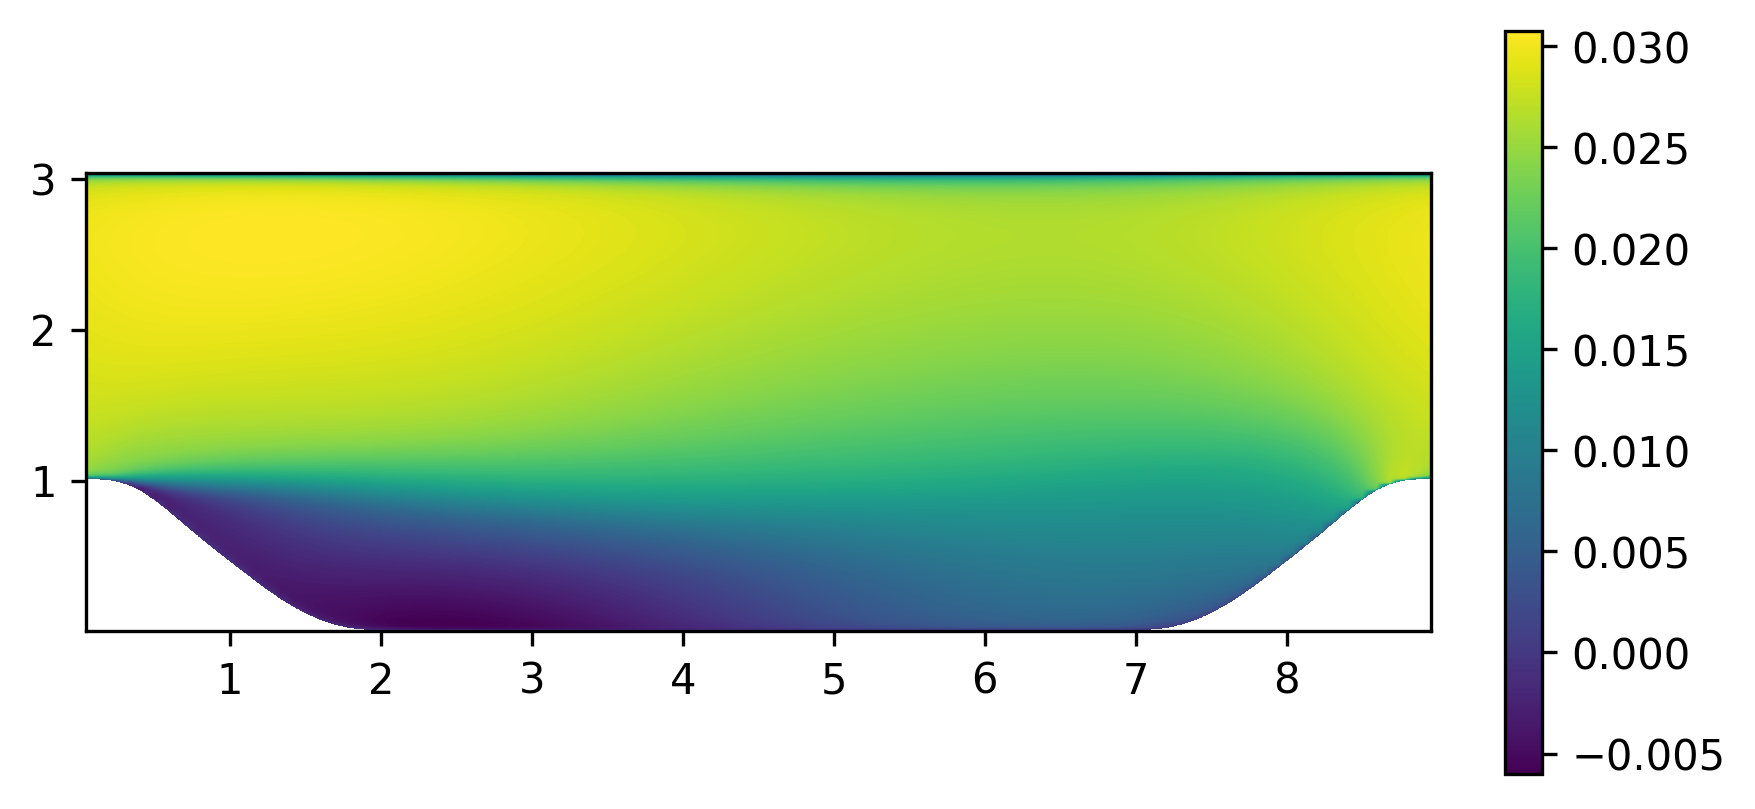
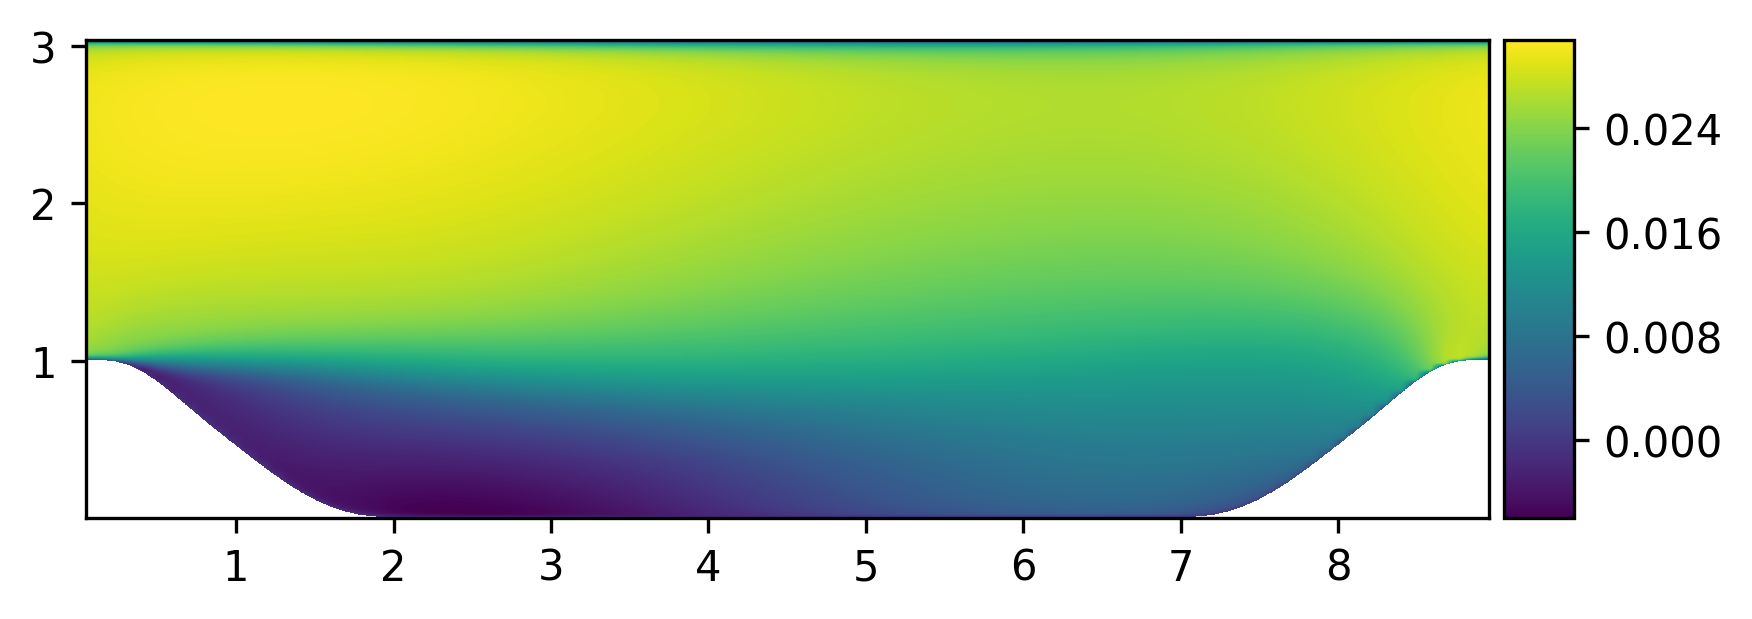
fixed colorbar

diff --git a/postfoam/foamtopy.py b/postfoam/foamtopy.py
@@ -8,6 +8,8 @@ import os.path
 from scipy.interpolate import griddata
 import re
 from matplotlib.path import Path
+from mpl_toolkits.axes_grid1 import make_axes_locatable
+from matplotlib import ticker
 
 
 
@@ -190,12 +192,18 @@ class FoamCase:
     def plotSurface(self, field: str, index: int = None, out = "out.png", colorbar: bool = False, show: bool = True):
         '''Cell coordinates have to be present in file C'''
         plt.figure()
+        ax = plt.subplot()
         x = self.parameters.get('C')[:,0]
         y = self.parameters.get('C')[:,1]
         xi,yi,zi = self.interp_data(field, index)
-        plt.imshow(zi, extent=[min(x),max(x),min(y),max(y)], origin='lower', cmap='viridis')
+        im = plt.imshow(zi, extent=[min(x),max(x),min(y),max(y)], origin='lower', cmap='viridis')
         if colorbar:
-            plt.colorbar()
+            divider = make_axes_locatable(ax)
+            cax = divider.append_axes("right", size="5%", pad=0.05)
+            cb = plt.colorbar(im, cax=cax)
+            tick_locator = ticker.MaxNLocator(nbins=5)
+            cb.locator = tick_locator
+            cb.update_ticks()
         if show:
             plt.savefig(out, dpi = 300, bbox_inches='tight')
             plt.show()
@@ -290,4 +298,4 @@ class FoamCase:
             print('Folder not found')
 
 
-    '''plot mesh, read postfoam'''
+    

diff --git a/postfoam/test.py b/postfoam/test.py
@@ -8,8 +8,7 @@ U = pe_hills.get_data("U")
 
 pe_hills.plotSurface('k', out = "surface_k.png", colorbar=True)
 
-pe_hills.plotSurface('U', 0 , show = False)
-plt.colorbar(fraction=0.046, shrink=0.67)
+pe_hills.plotSurface('U', 0 , show = False, colorbar=True)
 plt.savefig('surface_U.png', dpi = 300, bbox_inches='tight')
 plt.show()
 

diff --git a/postfoam/script.py b/postfoam/script.py
@@ -5,8 +5,7 @@ import numpy as np
 
 
 pe_hills = fp.FoamCase("/home/yiagoskyrits/postfoam/tests/test_case/periodic_hills")
-pe_hills.show_parameters()
-pe_hills.read_postData()
+pe_hills.plotSurface('k', out = "surface_k.png", colorbar=True)
 
 
 
